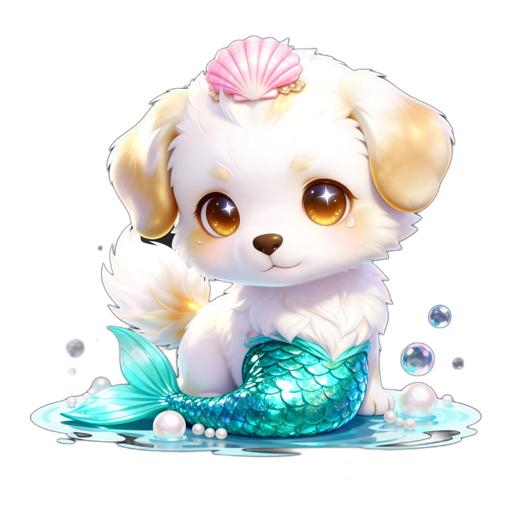
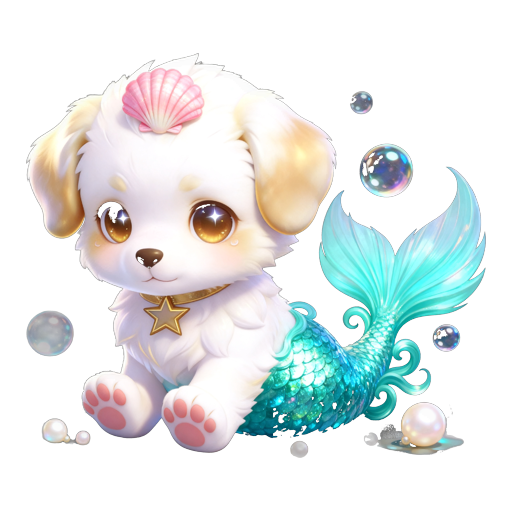
美人鱼皮肤修复 + 皮肤页只显已拥有 + 签到页精简(内嵌完整日历)
- 美人鱼皮肤重新生成:修掉手脚重叠畸形,坐姿自然鱼尾自然,清除抠图黑块残留;旧活宠物视频(按畸形图生成)暂从SKIN_SETS撤下,装上回落新静态图,视频下轮用新图重做
- 宠物页皮肤tab:只显示已拥有的皮肤(没拥有的不列),无皮肤时给空态引导去商城
- 签到页精简:删皮肤衣柜(与宠物页重复)、删累积成就长期大奖(与奖励页重复)、删'看完整日历'链接;完整月历(Calendar加embed模式)直接内嵌到周签到下方,不用再点开

diff --git a/src/pages/child/Streak.vue b/src/pages/child/Streak.vue
@@ -4,12 +4,10 @@ import { db, streak, mainTask, child } from '../../lib/store.js'
 import { weeklyProgress, nextCumulative, missedMainDays, isMainStreakTask } from '../../services/streakService.js'
 import { ownedFreezeCards } from '../../services/rewardService.js'
 import { makeUpMissedDay } from '../../services/checkinService.js'
-import { skinTrackState, equipSkin } from '../../services/skinService.js'
 import { todayStr, addDays } from '../../lib/util.js'
-import { REWARDS } from '../../lib/rewardConfig.js'
 import { toast } from '../../lib/toast.js'
-import { sfx } from '../../lib/sound.js'
 import CountUp from '../../components/CountUp.vue'
+import Calendar from './Calendar.vue'
 
 const wp = computed(() => weeklyProgress())
 const nc = computed(() => nextCumulative())
@@ -26,15 +24,6 @@ function makeUp(date) {
   } catch (e) { toast(e.message) }
 }
 
-// 皮肤衣柜(拥有的可装扮;未拥有去商城买)
-const skins = computed(() => skinTrackState())
-function equip(s) {
-  if (!s.owned) { toast(`还没拥有 ${s.emoji}${s.name},去🛍商城用星币买下它`); return }
-  equipSkin(s.equipped ? 'default' : s.key)
-  sfx.pop()
-  toast(s.equipped ? '已脱下装扮,变回原来的样子' : `已给小愿换上「${s.name}」${s.emoji}`)
-}
-
 const weekDays = computed(() => {
   const ids = new Set(db.tasks.filter(isMainStreakTask).map(t => t.id))
   const done = new Set(db.checkins.filter(c => ids.has(c.task_id) && c.status !== 'false_reported' && c.status !== 'revoked').map(c => c.checkin_date))
@@ -42,12 +31,6 @@ const weekDays = computed(() => {
   return labels.map((l, i) => { const d = addDays(ws.value, i); return { l, date: d, done: done.has(d), today: d === todayStr(), future: d > todayStr() } })
 })
 
-// 累积成就徽章:直接复用奖励页同一份配置(按连续签到 streak 的里程碑),保证名称/天数一致
-const badges = computed(() =>
-  REWARDS.filter(r => r.metric === 'streak')
-    .sort((a, b) => a.target - b.target)
-    .map(r => ({ d: r.target, icon: r.icon, name: r.name, got: nc.value.longest >= r.target }))
-)
 </script>
 
 <template>
@@ -82,29 +65,10 @@ const badges = computed(() =>
           <div style="font-size:17px;line-height:1.1;margin-top:1px">{{ d.done ? '🐾' : (d.today ? '⭐' : (d.future ? '·' : '–')) }}</div>
         </div>
       </div>
-      <router-link to="/child/calendar" style="display:block;text-align:center;margin-top:12px;font-size:13px;color:#ffd86b;text-decoration:none;padding:8px;border-radius:10px;background:rgba(255,216,107,.1)">📅 看完整日历 · 补卡 ›</router-link>
     </div>
 
-    <!-- 皮肤衣柜 -->
-    <div class="card skin-card" style="padding:16px;margin-bottom:16px">
-      <div style="display:flex;justify-content:space-between;align-items:baseline;margin-bottom:3px">
-        <span style="font-weight:700">🎀 皮肤衣柜</span>
-        <router-link to="/child/shop" class="dim" style="font-size:12px;color:#ffd86b;text-decoration:none">🛍 去商城 ›</router-link>
-      </div>
-      <div class="dim" style="font-size:11px;margin-bottom:12px">拥有的皮肤点一下就能给小愿换上;没有的去商城用星币购买。</div>
-      <div class="skin-track">
-        <div v-for="s in skins" :key="s.key" class="skin-node" :class="{ locked:!s.owned, equipped:s.equipped }" @click="equip(s)">
-          <div class="skin-pic">
-            <img :src="s.img" :alt="s.name" :style="s.owned ? '' : 'filter:grayscale(1) brightness(.45)'" />
-            <span v-if="!s.owned" class="skin-lock">🔒</span>
-            <span v-if="s.animated" class="skin-anim">✨动</span>
-            <span v-if="s.equipped" class="skin-on">装扮中</span>
-          </div>
-          <div class="skin-nm">{{ s.emoji }} {{ s.name }}</div>
-          <div class="skin-day" :class="{ dim:!s.owned }">{{ s.owned ? (s.equipped ? '点击脱下' : '点击装扮') : '商城购买' }}</div>
-        </div>
-      </div>
-    </div>
+    <!-- 完整月历(直接内嵌,不用再点开) -->
+    <Calendar embed />
 
     <!-- 漏打补卡(用免断签卡) -->
     <div v-if="missed.length" class="card" style="padding:16px;margin-bottom:16px;border-color:rgba(255,216,107,.35)">
@@ -115,20 +79,6 @@ const badges = computed(() =>
         <button class="btn-accent" style="padding:7px 14px;font-size:13px" :disabled="cards<1" :style="cards<1 ? 'opacity:.45' : ''" @click="makeUp(d)">用卡补</button>
       </div>
       <div v-if="cards<1" class="dim" style="font-size:11px;margin-top:10px">🈳 没有免断签卡了。本周英语满勤 7 天,可在「🎁 奖励」页申请一张,家长批准后就能用来补卡。</div>
-    </div>
-
-    <!-- 累积成就徽章 -->
-    <div class="card" style="padding:16px;margin-bottom:16px">
-      <div style="font-weight:600;margin-bottom:4px">🏅 累积成就(长期大奖)</div>
-      <div class="dim" style="font-size:11px;margin-bottom:12px">连续签到达成里程碑 → 到「🎁奖励」页申请,家长确认后兑现</div>
-      <div style="display:grid;grid-template-columns:repeat(4,1fr);gap:10px">
-        <div v-for="m in badges" :key="m.d" style="text-align:center;padding:10px 4px;border-radius:14px;transition:all .3s"
-             :style="m.got ? 'background:linear-gradient(160deg,rgba(255,216,107,.2),rgba(255,255,255,.06));border:1px solid rgba(255,216,107,.5)' : 'background:rgba(0,0,0,.2);border:1px solid rgba(255,255,255,.08)'">
-          <div style="font-size:30px" :style="m.got ? '' : 'filter:grayscale(1);opacity:.4'">{{ m.icon }}</div>
-          <div style="font-size:11px;margin-top:4px" :style="m.got ? 'color:#ffd86b;font-weight:700' : 'color:rgba(255,255,255,.4)'">{{ m.name }}</div>
-          <div class="dim" style="font-size:10px;margin-top:1px">{{ m.d }} 天{{ m.got ? ' ✓' : '' }}</div>
-        </div>
-      </div>
     </div>
 
     <div class="card" style="padding:16px;margin-bottom:16px">

diff --git a/src/pages/child/Pet.vue b/src/pages/child/Pet.vue
@@ -35,7 +35,8 @@ const dexPct = computed(() => dexTotal.value ? Math.round(dexUnlocked.value / de
 
 // 皮肤衣柜(商城购买的皮肤,在这里装扮)
 const wardrobe = computed(() => skinTrackState())
-const ownedSkinCount = computed(() => wardrobe.value.filter(s => s.owned).length)
+const ownedWardrobe = computed(() => wardrobe.value.filter(s => s.owned))
+const ownedSkinCount = computed(() => ownedWardrobe.value.length)
 function equipFromPet(s) {
   if (!s.owned) { toast(`还没拥有 ${s.emoji}${s.name},去 🛍 商城用星币买下它`); return }
   equipSkin(s.equipped ? 'default' : s.key)
@@ -92,20 +93,22 @@ function equipFromPet(s) {
 
     <div v-else-if="tab==='skin'">
       <div style="display:flex;align-items:center;margin:0 2px 11px">
-        <span class="dim" style="font-size:12px">拥有的点一下就给小愿穿上,没有的去🛍商城买</span>
+        <span class="dim" style="font-size:12px">点一下就给小愿穿上 / 脱下</span>
         <span class="dim" style="margin-left:auto;font-size:12px;font-weight:600">已拥有 {{ ownedSkinCount }}/{{ wardrobe.length }}</span>
       </div>
-      <div class="pskin-grid">
-        <div v-for="s in wardrobe" :key="s.key" class="pskin-cell" :class="{ equipped:s.equipped, locked:!s.owned }" @click="equipFromPet(s)">
+      <div v-if="ownedWardrobe.length" class="pskin-grid">
+        <div v-for="s in ownedWardrobe" :key="s.key" class="pskin-cell" :class="{ equipped:s.equipped }" @click="equipFromPet(s)">
           <div class="pskin-pic">
-            <img :src="s.img" :alt="s.name" :style="s.owned ? '' : 'filter:grayscale(1) brightness(.45)'" />
-            <span v-if="!s.owned" class="pskin-lock">🔒</span>
+            <img :src="s.img" :alt="s.name" />
             <span v-if="s.animated" class="pskin-anim">✨动</span>
             <span v-if="s.equipped" class="pskin-on">装扮中</span>
           </div>
           <div class="pskin-nm">{{ s.emoji }} {{ s.name }}</div>
-          <div class="pskin-act" :class="{ dim:!s.owned }">{{ s.owned ? (s.equipped ? '点击脱下' : '点击装扮') : '商城购买' }}</div>
+          <div class="pskin-act">{{ s.equipped ? '点击脱下' : '点击装扮' }}</div>
         </div>
+      </div>
+      <div v-else class="dim" style="text-align:center;padding:30px 14px;font-size:13px;line-height:1.7">
+        还没有皮肤呢~<br>去 🛍 商城用打卡攒的星币买喜欢的皮肤,买了就出现在这里 ✨
       </div>
     </div>
 

diff --git a/src/lib/living.js b/src/lib/living.js
@@ -43,10 +43,6 @@ import g_bath from '../assets/living/scene_god_bath.mp4'
 import g_eat from '../assets/living/scene_god_eat.mp4'
 import g_happy from '../assets/living/scene_god_happy.mp4'
 
-// 活皮肤视频(每个皮肤2段基础动画:idle溜达 + 摸摸反应;其余动作都复用摸摸反应)
-import sk_mermaid_walk from '../assets/living/skin_mermaid_walk.mp4'
-import sk_mermaid_happy from '../assets/living/skin_mermaid_happy.mp4'
-
 const BASE = { idle: b_walk, brush: b_brush, study: b_study, bath: b_bath, eat: b_eat, happy: b_happy }
 const EVO2 = { idle: e2_walk, brush: e2_brush, study: e2_study, bath: e2_bath, eat: e2_eat, happy: e2_happy }
 const EVO3 = { idle: e3_walk, brush: e3_brush, study: e3_study, bath: e3_bath, eat: e3_eat, happy: e3_happy }
@@ -57,10 +53,9 @@ const GOD = { idle: g_walk, brush: g_brush, study: g_study, bath: g_bath, eat: g
 // 形态(stage_idx)→ 活视频套;6个形态全齐 🎉
 const FORM_SETS = { 1: BASE, 2: EVO2, 3: EVO3, 4: EVO4, 5: EVO5, 6: GOD }
 // 活皮肤(优先于形态);以后一套套补。只做2段:idle溜达 + 摸摸反应(其余动作复用摸摸)
+// eslint-disable-next-line no-unused-vars
 function skinSet(walk, happy) { return { idle: walk, happy, brush: happy, study: happy, bath: happy, eat: happy } }
-const SKIN_SETS = {
-  mermaid: skinSet(sk_mermaid_walk, sk_mermaid_happy)
-}
+const SKIN_SETS = {}   // mermaid 视频待用新图重做后再加回
 
 // 选当前该用哪套活视频:活皮肤优先;装了非活皮肤→不活(回落静态展示皮肤);默认皮肤→看形态
 export function livingSet(pet) {

diff --git a/src/pages/child/Calendar.vue b/src/pages/child/Calendar.vue
@@ -1,6 +1,7 @@
 <script setup>
 import { ref, computed } from 'vue'
 import { db } from '../../lib/store.js'
+const props = defineProps({ embed: { type: Boolean, default: false } })
 import { todayStr } from '../../lib/util.js'
 import { requestMakeup } from '../../services/checkinService.js'
 import { toast } from '../../lib/toast.js'
@@ -57,8 +58,8 @@ function fmtSel(d) { if (!d) return ''; const p = d.split('-'); return `${+p[1]}
 </script>
 
 <template>
-  <div style="padding:14px 14px 90px">
-    <h2 style="font-size:18px;font-weight:700;margin:4px 2px 14px;border-left:3px solid #ffd86b;padding-left:10px">📅 打卡日历</h2>
+  <div :style="embed ? '' : 'padding:14px 14px 90px'">
+    <h2 v-if="!embed" style="font-size:18px;font-weight:700;margin:4px 2px 14px;border-left:3px solid #ffd86b;padding-left:10px">📅 打卡日历</h2>
     <div class="card" style="padding:14px">
       <div style="display:flex;justify-content:space-between;align-items:center;margin-bottom:12px">
         <button class="btn-ghost" style="padding:6px 12px" @click="move(-1)">‹</button>
